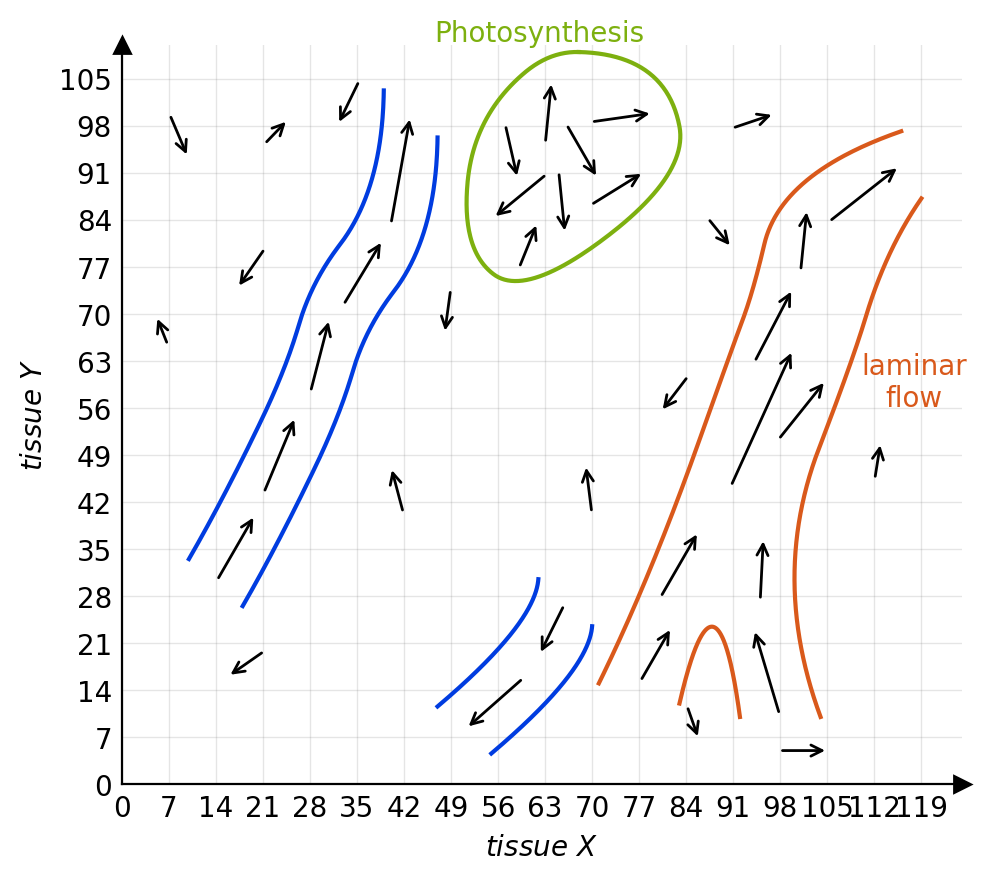
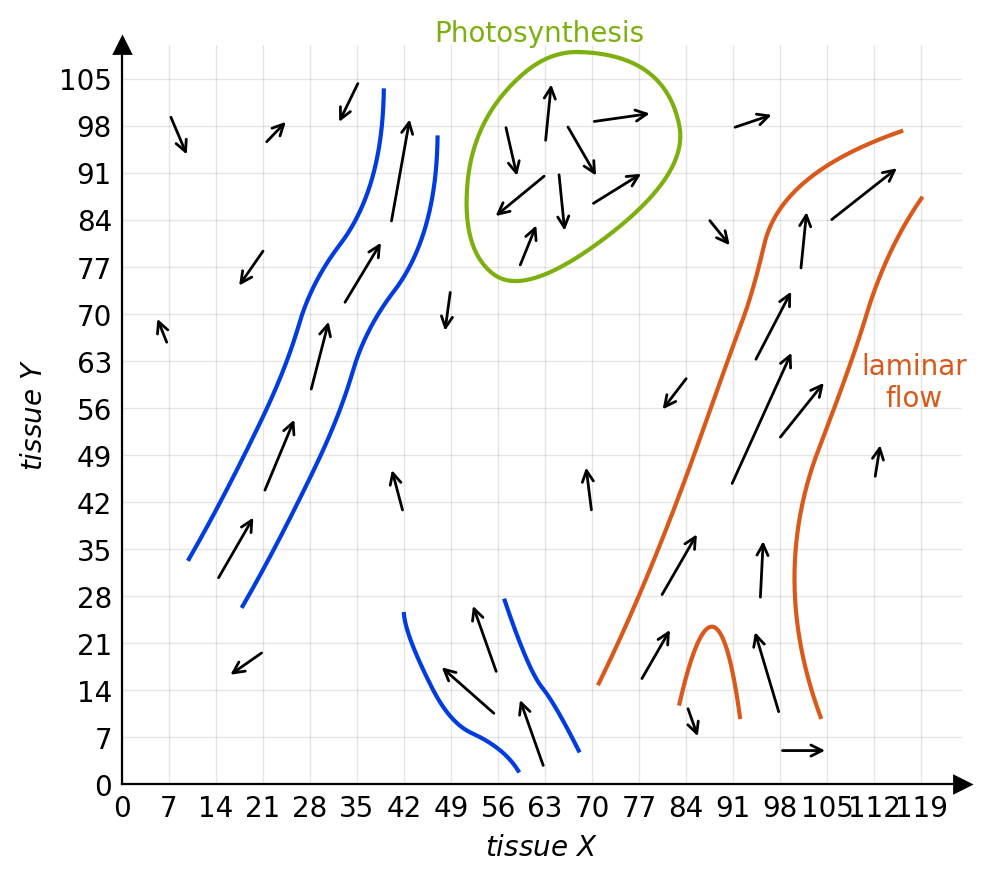
fig 1D: reworked right blue

Changed region(s): [[0.4242, 0.6742, 0.6061, 0.8888], [0.5758, 0.8275, 0.6061, 0.8581], [0.3939, 0.7049, 0.4242, 0.7355]]

diff --git a/figures/figure_1d.py b/figures/figure_1d.py
@@ -108,20 +108,28 @@ def plot_1d():
     # second from left, the one below the circle with two arrows
     def right_blue(color="blue"):
         arrows = (
-            arrow(60, 16, 51, -1),
-            arrow(66, 27, 62, -1, length=9)
+            arrow(56, 16, 52),
+            arrow(56, 10, 47),
+            arrow(63, 2, 59, length=12)
         )
 
-        # Create a smoother line using interpolation
-        arrow_xy = np.concatenate(arrows)[1:]
-        arrow_xy = arrow_xy[arrow_xy[:, 0].argsort()]
-        arrow_xy[:, 0] -= 4
-        arrow_xy[:, 1] += 3.5
-        draw_smooth_line(ax, arrow_xy, color=color)
-        # flux(arrow_xy, side="left")
-        arrow_xy[:, 0] += 8
-        arrow_xy[:, 1] -= 7
-        draw_smooth_line(ax, arrow_xy, color=color)
+        route_left_line = [
+            (arrows[0][1][0] - 10, arrows[0][1][1] - 2),
+            (arrows[1][1][0] - 3, arrows[1][1][1] + 1),
+            (arrows[1][0][0] - 7, arrows[1][0][1]),
+            (arrows[1][0][0] - 1, arrows[1][0][1] - 4),
+            (arrows[2][0][0] - 4, arrows[2][0][1]),
+        ]
+        draw_smooth_line(ax, route_left_line, color=color, k=2)
+
+        route_right_line = [
+            (arrows[0][1][0] + 5, arrows[0][1][1]),
+            (arrows[0][0][0] + 5, arrows[0][0][1] + 1),
+            (arrows[2][1][0] + 5, arrows[2][1][1] - 1),
+            (arrows[2][0][0] + 5, arrows[2][0][1] + 3),
+        ]
+        draw_smooth_line(ax, route_right_line, color=color, k=2)
+
         return arrows
 
     # the circle